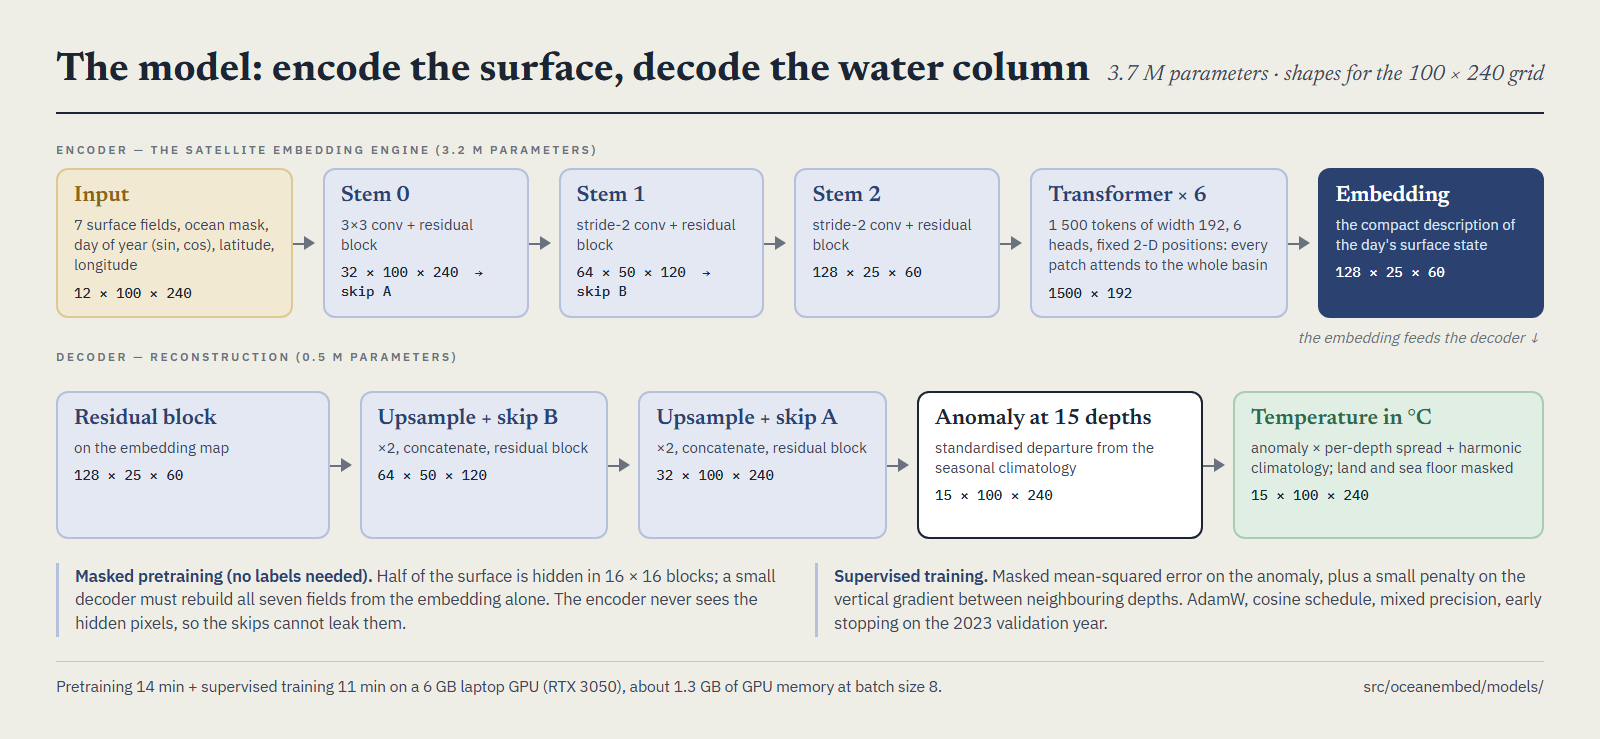
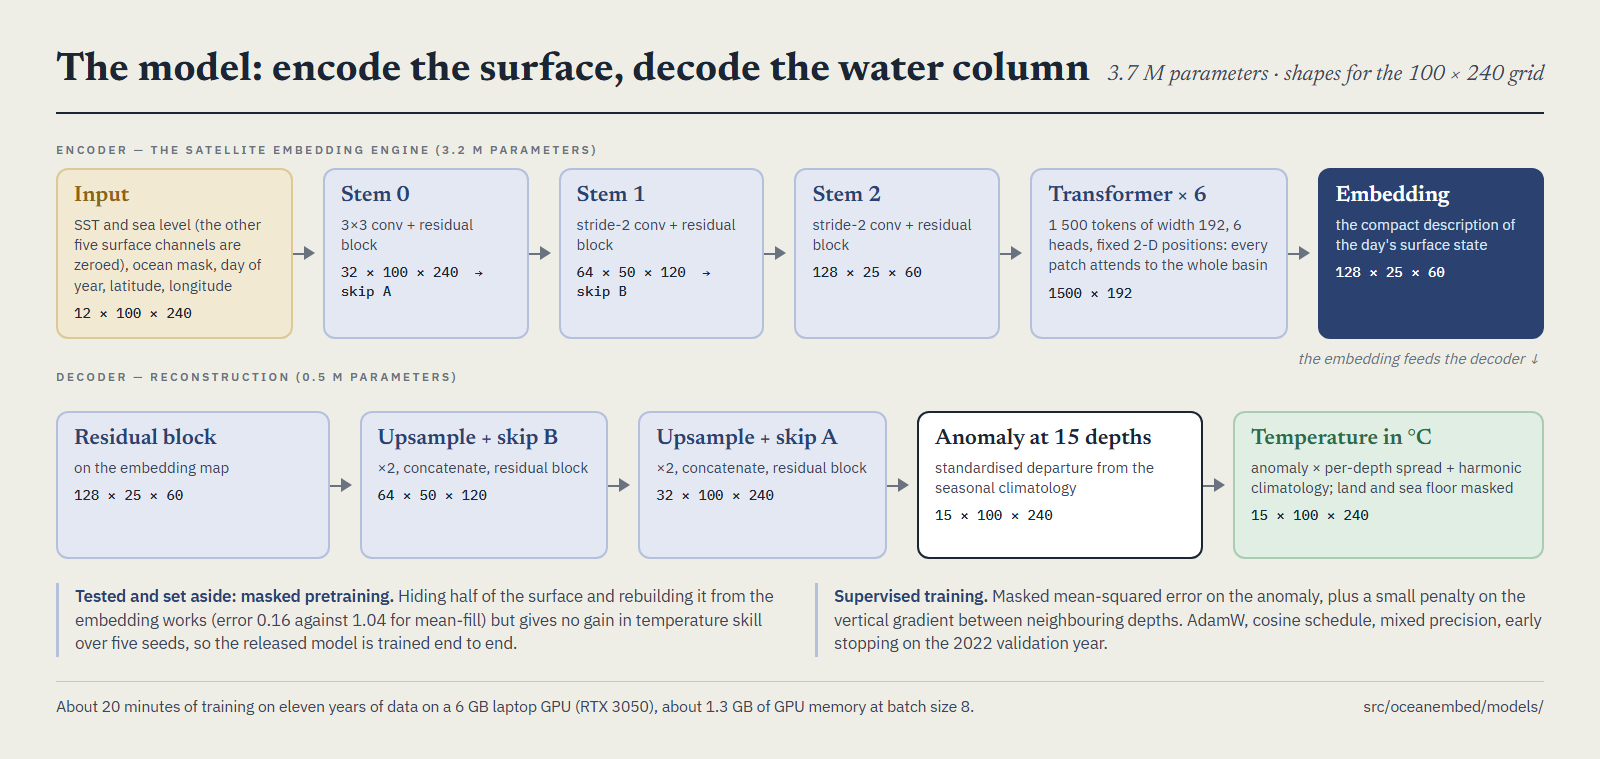
Update the pipeline, architecture, results and flowchart figures to the final eleven-year run

diff --git a/docs/figures/results.html b/docs/figures/results.html
@@ -24,7 +24,7 @@
   .take .s { font-size: 13px; color: var(--muted); margin-top: 4px; }
 </style></head>
 <body>
-<div class="head"><h1>Measured on 2024, a year the model never saw</h1><span>350 test days · single training seed</span></div>
+<div class="head"><h1>Measured on 2023 and 2024, two years the model never saw</h1><span>715 test days · trained on 2011 – 2021</span></div>
 
 <div class="grid">
   <div class="panel">
@@ -33,7 +33,7 @@
     <svg id="rmse" viewBox="0 0 440 470" width="440" height="470"></svg>
     <div class="legend">
       <span><i style="border-color:var(--m-model)"></i>OceanEmbed</span>
-      <span><i style="border-color:var(--m-scratch);border-top-style:dashed"></i>no pretraining</span>
+      <span><i style="border-color:var(--m-scratch);border-top-style:dashed"></i>per-pixel network</span>
       <span><i style="border-color:var(--m-ridge);border-top-style:dotted"></i>ridge</span>
       <span><i style="border-color:var(--m-clim);border-top-style:dotted"></i>climatology</span>
     </div>
@@ -44,48 +44,48 @@
     <svg id="skill" viewBox="0 0 440 470" width="440" height="470"></svg>
     <div class="legend">
       <span><i style="border-color:var(--m-model)"></i>OceanEmbed</span>
-      <span><i style="border-color:var(--m-scratch);border-top-style:dashed"></i>no pretraining</span>
+      <span><i style="border-color:var(--m-scratch);border-top-style:dashed"></i>per-pixel network</span>
       <span><i style="border-color:var(--m-ridge);border-top-style:dotted"></i>ridge</span>
     </div>
   </div>
   <div class="panel bars">
     <h2>The thermocline, 50–200 m</h2>
-    <p class="cap">pooled RMSE in °C · the same test days for every method</p>
+    <p class="cap">pooled RMSE in °C over both test years · same days for every method</p>
     <h3>AGAINST THE GLORYS REANALYSIS</h3>
-    <div class="bar lead"><span>OceanEmbed</span><div class="track"><div class="fill" style="width:59.8%;background:var(--m-model)"></div></div><b>1.08</b></div>
-    <div class="bar"><span>No pretraining</span><div class="track"><div class="fill" style="width:57.8%;background:var(--m-scratch)"></div></div><b>1.04</b></div>
-    <div class="bar"><span>Ridge regression</span><div class="track"><div class="fill" style="width:64.1%;background:var(--m-ridge)"></div></div><b>1.15</b></div>
-    <div class="bar"><span>Climatology</span><div class="track"><div class="fill" style="width:77.2%;background:var(--m-clim)"></div></div><b>1.39</b></div>
-    <h3>AGAINST 2 826 ARGO FLOAT PROFILES</h3>
-    <div class="bar"><span>GLORYS itself</span><div class="track"><div class="fill" style="width:60.0%;background:var(--m-glorys)"></div></div><b>1.08</b></div>
-    <div class="bar lead"><span>OceanEmbed</span><div class="track"><div class="fill" style="width:78.6%;background:var(--m-model)"></div></div><b>1.41</b></div>
-    <div class="bar"><span>No pretraining</span><div class="track"><div class="fill" style="width:78.6%;background:var(--m-scratch)"></div></div><b>1.41</b></div>
-    <div class="bar"><span>Ridge regression</span><div class="track"><div class="fill" style="width:85.1%;background:var(--m-ridge)"></div></div><b>1.53</b></div>
-    <div class="bar"><span>Climatology</span><div class="track"><div class="fill" style="width:92.7%;background:var(--m-clim)"></div></div><b>1.67</b></div>
+    <div class="bar lead"><span>OceanEmbed</span><div class="track"><div class="fill" style="width:54.6%;background:var(--m-model)"></div></div><b>0.98</b></div>
+    <div class="bar"><span>Per-pixel network</span><div class="track"><div class="fill" style="width:56.3%;background:var(--m-scratch)"></div></div><b>1.01</b></div>
+    <div class="bar"><span>Ridge regression</span><div class="track"><div class="fill" style="width:67.7%;background:var(--m-ridge)"></div></div><b>1.22</b></div>
+    <div class="bar"><span>Climatology</span><div class="track"><div class="fill" style="width:81.1%;background:var(--m-clim)"></div></div><b>1.46</b></div>
+    <h3>AGAINST 5 512 ARGO FLOAT PROFILES</h3>
+    <div class="bar"><span>GLORYS itself</span><div class="track"><div class="fill" style="width:58.4%;background:var(--m-glorys)"></div></div><b>1.05</b></div>
+    <div class="bar lead"><span>OceanEmbed</span><div class="track"><div class="fill" style="width:73.4%;background:var(--m-model)"></div></div><b>1.32</b></div>
+    <div class="bar"><span>Per-pixel network</span><div class="track"><div class="fill" style="width:71.7%;background:var(--m-scratch)"></div></div><b>1.29</b></div>
+    <div class="bar"><span>Ridge regression</span><div class="track"><div class="fill" style="width:76.4%;background:var(--m-ridge)"></div></div><b>1.38</b></div>
+    <div class="bar"><span>Climatology</span><div class="track"><div class="fill" style="width:84.2%;background:var(--m-clim)"></div></div><b>1.52</b></div>
     <p class="cap" style="margin-top:10px">GLORYS assimilates Argo, so its own distance from the floats is the floor for any model trained on it.</p>
     <h3>SKILL BY BASIN, AGAINST GLORYS (0 = CLIMATOLOGY, 1 = PERFECT)</h3>
-    <div class="bar lead"><span>Bay of Bengal</span><div class="track"><div class="fill" style="width:55.3%;background:var(--m-model)"></div></div><b>0.55</b></div>
-    <div class="bar"><span>&nbsp; ridge</span><div class="track"><div class="fill" style="width:39.7%;background:var(--m-ridge)"></div></div><b>0.40</b></div>
-    <div class="bar lead"><span>Arabian Sea</span><div class="track"><div class="fill" style="width:28.7%;background:var(--m-model)"></div></div><b>0.29</b></div>
-    <div class="bar"><span>&nbsp; ridge</span><div class="track"><div class="fill" style="width:25.2%;background:var(--m-ridge)"></div></div><b>0.25</b></div>
+    <div class="bar lead"><span>Bay of Bengal</span><div class="track"><div class="fill" style="width:66.9%;background:var(--m-model)"></div></div><b>0.67</b></div>
+    <div class="bar"><span>&nbsp; per-pixel</span><div class="track"><div class="fill" style="width:60.1%;background:var(--m-scratch)"></div></div><b>0.60</b></div>
+    <div class="bar lead"><span>Arabian Sea</span><div class="track"><div class="fill" style="width:44.8%;background:var(--m-model)"></div></div><b>0.45</b></div>
+    <div class="bar"><span>&nbsp; per-pixel</span><div class="track"><div class="fill" style="width:45.4%;background:var(--m-scratch)"></div></div><b>0.45</b></div>
   </div>
 </div>
 
 <div class="takes">
-  <div class="take"><div class="n">22 %</div><div class="t">lower error than climatology over 50–200 m</div><div class="s">26 % at 100 m · 7 % below ridge regression</div></div>
-  <div class="take"><div class="n">0.64</div><div class="t">anomaly correlation, seasonal cycle removed</div><div class="s">ridge 0.56</div></div>
-  <div class="take"><div class="n">0.55 / 0.29</div><div class="t">skill in the Bay of Bengal / Arabian Sea</div><div class="s">0 = climatology, 1 = perfect</div></div>
-  <div class="take lim"><div class="n">≈ 300 m</div><div class="t">below this depth there is no skill over climatology</div><div class="s">and pretraining gave no measurable gain</div></div>
+  <div class="take"><div class="n">33 %</div><div class="t">lower error than climatology over 50–200 m</div><div class="s">0.97 °C in 2023, 0.99 °C in 2024 · 19 % below ridge regression</div></div>
+  <div class="take"><div class="n">0.73</div><div class="t">anomaly correlation, seasonal cycle removed</div><div class="s">ridge 0.53</div></div>
+  <div class="take"><div class="n">0.67 / 0.45</div><div class="t">skill in the Bay of Bengal / Arabian Sea</div><div class="s">0 = climatology, 1 = perfect</div></div>
+  <div class="take lim"><div class="n">≈ 300 m</div><div class="t">below this depth there is no skill over climatology</div><div class="s">with eleven training years and either input set</div></div>
 </div>
 
 <script>
 (function () {
   var depths = [0,5,10,20,30,50,75,100,125,150,200,300,500,700,1000];
   var R = {
-    clim:  [0.793,0.792,0.792,0.829,0.913,1.179,1.545,1.657,1.556,1.359,0.894,0.545,0.352,0.356,0.380],
-    ridge: [0.727,0.728,0.726,0.762,0.828,0.997,1.213,1.313,1.303,1.199,0.827,0.532,0.351,0.354,0.380],
-    scr:   [0.558,0.562,0.571,0.615,0.722,0.919,1.084,1.183,1.178,1.064,0.753,0.517,0.350,0.358,0.409],
-    model: [0.572,0.567,0.570,0.631,0.725,0.921,1.100,1.222,1.241,1.121,0.790,0.532,0.357,0.366,0.408]
+    clim:  [0.814,0.808,0.805,0.844,0.937,1.220,1.621,1.762,1.646,1.412,0.925,0.531,0.345,0.344,0.363],
+    ridge: [0.725,0.722,0.715,0.751,0.830,1.051,1.352,1.446,1.351,1.182,0.810,0.504,0.338,0.338,0.360],
+    scr:   [0.482,0.491,0.480,0.537,0.638,0.840,1.083,1.173,1.140,1.034,0.742,0.496,0.339,0.336,0.359],
+    model: [0.469,0.474,0.483,0.552,0.644,0.819,1.014,1.123,1.117,1.024,0.740,0.503,0.345,0.349,0.373]
   };
   var style = { clim: ["var(--m-clim)", "2 5"], ridge: ["var(--m-ridge)", "2 5"], scr: ["var(--m-scratch)", "8 5"], model: ["var(--m-model)", ""] };
   var ns = "http://www.w3.org/2000/svg";
@@ -114,7 +114,7 @@
       if (k === "model") vals.forEach(function (v, i) { el("circle", {cx: x(v), cy: y(depths[i]), r: 3.2, fill: style[k][0]}); });
     });
   }
-  chart("rmse", 0, 1.8, [0, 0.5, 1.0, 1.5], ["clim", "ridge", "scr", "model"], function (v) { return v; }, "RMSE (°C)", false);
+  chart("rmse", 0, 1.9, [0, 0.5, 1.0, 1.5], ["clim", "ridge", "scr", "model"], function (v) { return v; }, "RMSE (°C)", false);
   chart("skill", -0.2, 0.6, [-0.2, 0, 0.2, 0.4, 0.6], ["ridge", "scr", "model"], function (v, i) { return 1 - (v * v) / (R.clim[i] * R.clim[i]); }, "Skill vs climatology", true);
 })();
 </script>

diff --git a/docs/flowchart/oceanembed-flowchart.html b/docs/flowchart/oceanembed-flowchart.html
@@ -107,8 +107,8 @@
 <!-- 1 inputs -->
 <div class="row">
   <div class="box blue">
-    <h2>Seven satellite surface fields</h2>
-    <p>one snapshot of the sea surface per day — nothing from below it</p>
+    <h2>Satellite surface fields</h2>
+    <p>one snapshot of the sea surface per day — seven harmonised, two used by the final model</p>
     <div class="chips">
       <span class="chip">SST · OSTIA</span><span class="chip">salinity · SMOS/SMAP</span><span class="chip">sea level · DUACS</span>
       <span class="chip">currents U,V · OSCAR</span><span class="chip">winds U,V · CCMP</span>
@@ -128,9 +128,9 @@
       <div class="subbox"><b>Daily means</b><span>6-hourly winds averaged to one value per day</span></div>
       <div class="subbox"><b>Standard depths</b><span>GLORYS levels interpolated to 15 depths, 0 – 1 000 m</span></div>
     </div>
-    <p class="small">2 541 days, 2018-01-01 → 2024-12-15, no gaps</p>
+    <p class="small">5 098 days, 2011-01-01 → 2024-12-15, no gaps</p>
   </div>
-  <div class="note">Currents and winds are <b>subset on the server</b> (OPeNDAP): about 16 GB transferred for seven years instead of about 180 GB of global files.</div>
+  <div class="note">Currents and winds are <b>subset on the server</b> (OPeNDAP): a few hundred kilobytes per day instead of 33 MB global files, over fourteen years.</div>
 </div>
 <div class="arrow"></div>
 
@@ -139,7 +139,7 @@
   <div class="box gate">
     <span class="tag">GATE</span>
     <h2>Split by time, never at random</h2>
-    <p>train 2018 – 2022 · validate 2023 · test 2024 — statistics come from the training years only</p>
+    <p>train 2011 – 2021 · validate 2022 · test 2023 and 2024 — statistics come from the training years only</p>
   </div>
   <div class="note">Neighbouring days look alike. A random split would <b>leak the answer</b> into training; a whole unseen year cannot.</div>
 </div>
@@ -161,11 +161,11 @@
     <h2>Satellite embedding engine</h2>
     <p>CNN stem + Transformer encoder → <b style="color:var(--ink)">128 features on a 25 × 60 map</b> of the basin</p>
     <div class="subs c2">
-      <div class="subbox"><b>Masked pretraining</b><span>half the surface hidden in 16 × 16 blocks and rebuilt from the rest — needs no subsurface labels</span></div>
+      <div class="subbox"><b>Two inputs are enough</b><span>SST and sea level, chosen on the validation year; salinity, currents and winds add nothing</span></div>
       <div class="subbox"><b>Attention over the whole basin</b><span>1 500 tokens: every patch can use eddies and fronts anywhere in the domain</span></div>
     </div>
   </div>
-  <div class="note">Hidden surface blocks are rebuilt with error <b>0.16</b> against <b>1.04</b> for filling in the mean (standardised units, 2023 validation year).</div>
+  <div class="note">Without sea level the error rises by <b>0.04 °C</b> for this model and <b>0.27 °C</b> for a per-pixel network; with SST alone, by <b>0.28 °C</b>.</div>
 </div>
 <div class="arrow"></div>
 
@@ -175,7 +175,7 @@
     <h2>Reconstruction decoder</h2>
     <p>U-Net-style decoder with skip connections → temperature anomaly at 15 depths, then + climatology = °C</p>
   </div>
-  <div class="note"><b>3.7 M parameters.</b> Trains in about 25 minutes on a 6 GB laptop GPU (14 pretraining, 11 supervised); the loss ignores land and the sea floor.</div>
+  <div class="note"><b>3.7 M parameters.</b> Trains in about 20 minutes on a 6 GB laptop GPU; the loss ignores land and the sea floor.</div>
 </div>
 <div class="arrow"></div>
 
@@ -183,8 +183,8 @@
 <div class="row">
   <div class="box gate">
     <span class="tag">TEST</span>
-    <h2>A held-out year against GLORYS</h2>
-    <p>350 days of 2024 — RMSE, bias, anomaly correlation and skill per depth, basin and grid cell</p>
+    <h2>Two held-out years against GLORYS</h2>
+    <p>715 days of 2023 and 2024 — RMSE, bias, anomaly correlation and skill per depth, basin, cell and year</p>
   </div>
   <div class="stop">
     <span class="lbl">no skill</span>
@@ -202,7 +202,7 @@
     <h2>Argo float profiles</h2>
     <p>in-situ profiles matched to the same cell and day; every method scored on the same sample</p>
   </div>
-  <div class="note"><b>2 826 profiles</b> in 2024. GLORYS assimilates Argo, so Argo is independent of the model's <b>inputs</b>, not of its training target; GLORYS-vs-Argo is shown as the floor.</div>
+  <div class="note"><b>5 512 profiles</b> in 2023 – 2024. GLORYS assimilates Argo, so Argo is independent of the model's <b>inputs</b>, not of its training target; GLORYS-vs-Argo is shown as the floor.</div>
 </div>
 <div class="arrow"></div>
 
@@ -210,14 +210,14 @@
 <div class="row">
   <div class="box tan">
     <h2>Baselines and ablation, always alongside</h2>
-    <div class="chips"><span class="chip">climatology</span><span class="chip">ridge regression</span><span class="chip">no pretraining</span></div>
+    <div class="chips"><span class="chip">climatology</span><span class="chip">ridge regression</span><span class="chip">per-pixel network</span><span class="chip">pretrained variant</span></div>
     <p class="small">a result only counts if it beats the simple alternatives on the same days</p>
   </div>
   <div class="stop">
     <span class="lbl">no gain</span>
     <div class="k">ABLATION RESULT</div>
     <h3>Pretraining did not help</h3>
-    <p>trained from scratch: 1.04 °C; with pretraining: 1.08 °C (50–200 m, one seed) — kept on the page</p>
+    <p>five seeds each: 1.05 °C from scratch, 1.06 °C with masked pretraining (50–200 m) — reported, then dropped</p>
   </div>
 </div>
 <div class="arrow"></div>
@@ -245,13 +245,13 @@
 </div>
 
 <div class="measured">
-  <div class="head"><h2>Measured, not claimed</h2><span>RESULTS ON 2024, A YEAR THE MODEL NEVER SAW</span></div>
+  <div class="head"><h2>Measured, not claimed</h2><span>RESULTS ON 2023 AND 2024, TWO YEARS THE MODEL NEVER SAW</span></div>
   <div class="stats">
-    <div class="stat"><div class="n">1.08<small> °C</small></div><div class="t">RMSE in the thermocline, 50–200 m</div><div class="s">climatology 1.39 · ridge 1.15</div></div>
-    <div class="stat"><div class="n">22<small> %</small></div><div class="t">lower error than climatology</div><div class="s">26 % at 100 m, where it matters most</div></div>
-    <div class="stat"><div class="n">0.64</div><div class="t">anomaly correlation, 50–200 m</div><div class="s">ridge 0.56 · seasonal cycle removed</div></div>
-    <div class="stat"><div class="n">0.55</div><div class="t">skill in the Bay of Bengal</div><div class="s">Arabian Sea 0.29 · 0 = climatology</div></div>
-    <div class="stat"><div class="n">1.41<small> °C</small></div><div class="t">RMSE against Argo floats, 50–200 m</div><div class="s">climatology 1.67 · GLORYS itself 1.08 · 40 059 matchups</div></div>
+    <div class="stat"><div class="n">0.98<small> °C</small></div><div class="t">RMSE in the thermocline, 50–200 m</div><div class="s">climatology 1.46 · ridge 1.22</div></div>
+    <div class="stat"><div class="n">33<small> %</small></div><div class="t">lower error than climatology</div><div class="s">36 % at 100 m, where it matters most</div></div>
+    <div class="stat"><div class="n">0.73</div><div class="t">anomaly correlation, 50–200 m</div><div class="s">ridge 0.53 · seasonal cycle removed</div></div>
+    <div class="stat"><div class="n">0.67</div><div class="t">skill in the Bay of Bengal</div><div class="s">Arabian Sea 0.45 · 0 = climatology</div></div>
+    <div class="stat"><div class="n">1.32<small> °C</small></div><div class="t">RMSE against Argo floats, 50–200 m</div><div class="s">climatology 1.52 · GLORYS itself 1.05 · 77 388 matchups</div></div>
     <div class="stat limit"><div class="n">0</div><div class="t">skill below 300 m</div><div class="s">no better than climatology at 500–1 000 m</div></div>
   </div>
 </div>

diff --git a/docs/figures/pipeline.html b/docs/figures/pipeline.html
@@ -9,7 +9,7 @@
   .flow .box:not(:last-child)::before { content: ""; position: absolute; right: -19px; top: 50%; width: 17px; border-top: 2.5px solid #6A7280; }
   .big { font-family: "Newsreader", Georgia, serif; font-weight: 600; font-size: 34px; color: var(--ink); line-height: 1; display: block; margin: 10px 0 2px; }
   .sub { font-size: 14.5px; color: var(--muted); display: block; }
-  .years { margin-top: 30px; display: grid; grid-template-columns: 5fr 1fr 1fr; gap: 6px; }
+  .years { margin-top: 30px; display: grid; grid-template-columns: 11fr 1.6fr 2.4fr; gap: 6px; }
   .yr { border-radius: 8px; padding: 10px 16px; font-size: 16px; display: flex; justify-content: space-between; align-items: center; }
   .yr b { font-weight: 600; }
   .train { background: var(--blue-bg); border: 2px solid var(--blue-bd); color: var(--blue-tx); }
@@ -21,22 +21,22 @@
 
 <div class="flow">
   <div class="box blue">
-    <span class="k">1 · INPUT</span><h2>Seven surface fields</h2>
-    <p>One satellite snapshot of the sea surface per day.</p>
+    <span class="k">1 · INPUT</span><h2>Satellite surface fields</h2>
+    <p>One snapshot of the sea surface per day. Seven fields are harmonised; the final model needs two.</p>
     <div style="margin-top:10px">
       <span class="chip">SST</span><span class="chip">salinity</span><span class="chip">sea level</span>
       <span class="chip">currents U V</span><span class="chip">winds U V</span>
     </div>
-    <span class="big">7</span><span class="sub">channels, nothing from below the surface</span>
+    <span class="big">2 of 7</span><span class="sub">used: SST and sea level; nothing from below the surface</span>
   </div>
   <div class="box tan">
     <span class="k">2 · HARMONISE</span><h2>One grid, one clock</h2>
     <p>Six products at 0.05° to 0.25°, daily or 6-hourly, regridded to 0.25° daily.</p>
-    <span class="big">2 541</span><span class="sub">gap-free days · 100 × 240 cells · 15 depths</span>
+    <span class="big">5 098</span><span class="sub">gap-free days · 100 × 240 cells · 15 depths</span>
   </div>
   <div class="box blue">
     <span class="k">3 · ENCODE</span><h2>Satellite embedding</h2>
-    <p>CNN stem + 6-layer Transformer. Pretrained by rebuilding hidden parts of the surface.</p>
+    <p>CNN stem + 6-layer Transformer: every patch of the basin attends to every other.</p>
     <span class="big">128</span><span class="sub">features on a 25 × 60 map of the basin</span>
   </div>
   <div class="box blue">
@@ -45,9 +45,9 @@
     <span class="big">15</span><span class="sub">depths, 0 to 1 000 m, in °C</span>
   </div>
   <div class="box gate">
-    <span class="k">5 · CHECK</span><h2>A year it never saw</h2>
-    <p>Against the GLORYS reanalysis and Argo floats, beside climatology, ridge regression and an ablation.</p>
-    <span class="big">350</span><span class="sub">test days · 2 826 Argo profiles</span>
+    <span class="k">5 · CHECK</span><h2>Two years it never saw</h2>
+    <p>Against the GLORYS reanalysis and Argo floats, beside climatology, ridge regression and a per-pixel network.</p>
+    <span class="big">715</span><span class="sub">test days · 5 512 Argo profiles</span>
   </div>
   <div class="box dark">
     <span class="k">6 · DELIVER</span><h2>Product and explorer</h2>
@@ -57,9 +57,9 @@
 </div>
 
 <div class="years">
-  <div class="yr train"><b>Train</b><span>2018 · 2019 · 2020 · 2021 · 2022 &nbsp;(1 826 days)</span></div>
-  <div class="yr val"><b>Validate</b><span>2023</span></div>
-  <div class="yr test"><b>Test</b><span>2024</span></div>
+  <div class="yr train"><b>Train</b><span>2011 – 2021 &nbsp;(11 years, 4 018 days)</span></div>
+  <div class="yr val"><b>Validate</b><span>2022</span></div>
+  <div class="yr test"><b>Test</b><span>2023 · 2024</span></div>
 </div>
 
 <div class="foot"><span>Split by time, never at random: neighbouring days look alike, so a random split would leak the answer.</span><span>North Indian Ocean · 5–30°N, 45–105°E</span></div>

diff --git a/docs/figures/architecture.html b/docs/figures/architecture.html
@@ -24,7 +24,7 @@
 
 <p class="label">ENCODER — THE SATELLITE EMBEDDING ENGINE (3.2 M PARAMETERS)</p>
 <div class="row enc">
-  <div class="box tan"><h2>Input</h2><p>7 surface fields, ocean mask, day of year (sin, cos), latitude, longitude</p><span class="shape">12 × 100 × 240</span></div>
+  <div class="box tan"><h2>Input</h2><p>SST and sea level (the other five surface channels are zeroed), ocean mask, day of year, latitude, longitude</p><span class="shape">12 × 100 × 240</span></div>
   <div class="box blue"><h2>Stem 0</h2><p>3×3 conv + residual block</p><span class="shape">32 × 100 × 240 &nbsp;→ skip A</span></div>
   <div class="box blue"><h2>Stem 1</h2><p>stride-2 conv + residual block</p><span class="shape">64 × 50 × 120 &nbsp;→ skip B</span></div>
   <div class="box blue"><h2>Stem 2</h2><p>stride-2 conv + residual block</p><span class="shape">128 × 25 × 60</span></div>
@@ -43,9 +43,9 @@
 </div>
 
 <div class="skips">
-  <div class="note"><b>Masked pretraining (no labels needed).</b> Half of the surface is hidden in 16 × 16 blocks; a small decoder must rebuild all seven fields from the embedding alone. The encoder never sees the hidden pixels, so the skips cannot leak them.</div>
-  <div class="note"><b>Supervised training.</b> Masked mean-squared error on the anomaly, plus a small penalty on the vertical gradient between neighbouring depths. AdamW, cosine schedule, mixed precision, early stopping on the 2023 validation year.</div>
+  <div class="note"><b>Tested and set aside: masked pretraining.</b> Hiding half of the surface and rebuilding it from the embedding works (error 0.16 against 1.04 for mean-fill) but gives no gain in temperature skill over five seeds, so the released model is trained end to end.</div>
+  <div class="note"><b>Supervised training.</b> Masked mean-squared error on the anomaly, plus a small penalty on the vertical gradient between neighbouring depths. AdamW, cosine schedule, mixed precision, early stopping on the 2022 validation year.</div>
 </div>
 
-<div class="foot"><span>Pretraining 14 min + supervised training 11 min on a 6 GB laptop GPU (RTX 3050), about 1.3 GB of GPU memory at batch size 8.</span><span>src/oceanembed/models/</span></div>
+<div class="foot"><span>About 20 minutes of training on eleven years of data on a 6 GB laptop GPU (RTX 3050), about 1.3 GB of GPU memory at batch size 8.</span><span>src/oceanembed/models/</span></div>
 </body></html>
